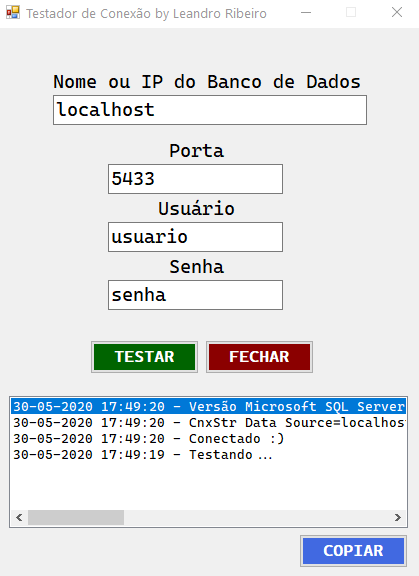
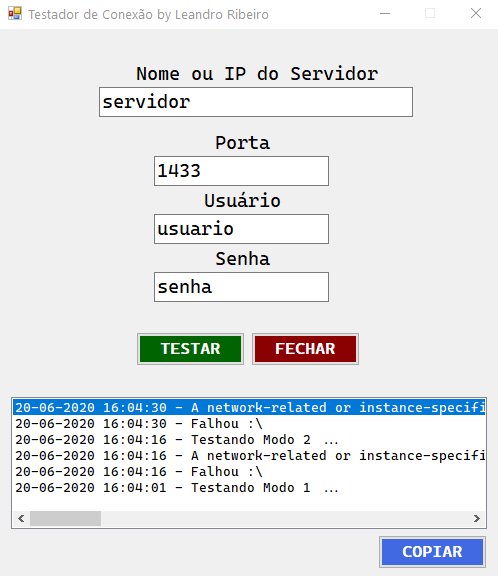
Adicionado método alternativo de conexão ao servidor

diff --git a/Main.Designer.cs b/Main.Designer.cs
@@ -30,7 +30,7 @@
         {
             this.components = new System.ComponentModel.Container();
             this.label1 = new System.Windows.Forms.Label();
-            this.txtBancoDeDados = new System.Windows.Forms.TextBox();
+            this.txtServidor = new System.Windows.Forms.TextBox();
             this.txtUsuario = new System.Windows.Forms.TextBox();
             this.label2 = new System.Windows.Forms.Label();
             this.txtSenha = new System.Windows.Forms.TextBox();
@@ -49,25 +49,25 @@
             // 
             this.label1.AutoSize = true;
             this.label1.Font = new System.Drawing.Font("Cascadia Code", 14F, System.Drawing.FontStyle.Regular, System.Drawing.GraphicsUnit.Point, ((byte)(0)));
-            this.label1.Location = new System.Drawing.Point(52, 42);
+            this.label1.Location = new System.Drawing.Point(133, 33);
             this.label1.Name = "label1";
-            this.label1.Size = new System.Drawing.Size(318, 22);
+            this.label1.Size = new System.Drawing.Size(252, 22);
             this.label1.TabIndex = 0;
-            this.label1.Text = "Nome ou IP do Banco de Dados";
+            this.label1.Text = "Nome ou IP do Servidor";
             // 
-            // txtBancoDeDados
+            // txtServidor
             // 
-            this.txtBancoDeDados.Font = new System.Drawing.Font("Cascadia Code", 14F, System.Drawing.FontStyle.Regular, System.Drawing.GraphicsUnit.Point, ((byte)(0)));
-            this.txtBancoDeDados.Location = new System.Drawing.Point(56, 67);
-            this.txtBancoDeDados.Name = "txtBancoDeDados";
-            this.txtBancoDeDados.Size = new System.Drawing.Size(314, 30);
-            this.txtBancoDeDados.TabIndex = 1;
-            this.txtBancoDeDados.Validating += new System.ComponentModel.CancelEventHandler(this.txtBancoDeDados_Validating);
+            this.txtServidor.Font = new System.Drawing.Font("Cascadia Code", 14F, System.Drawing.FontStyle.Regular, System.Drawing.GraphicsUnit.Point, ((byte)(0)));
+            this.txtServidor.Location = new System.Drawing.Point(100, 58);
+            this.txtServidor.Name = "txtServidor";
+            this.txtServidor.Size = new System.Drawing.Size(314, 30);
+            this.txtServidor.TabIndex = 1;
+            this.txtServidor.Validating += new System.ComponentModel.CancelEventHandler(this.txtBancoDeDados_Validating);
             // 
             // txtUsuario
             // 
             this.txtUsuario.Font = new System.Drawing.Font("Cascadia Code", 14F, System.Drawing.FontStyle.Regular, System.Drawing.GraphicsUnit.Point, ((byte)(0)));
-            this.txtUsuario.Location = new System.Drawing.Point(111, 194);
+            this.txtUsuario.Location = new System.Drawing.Point(155, 185);
             this.txtUsuario.Name = "txtUsuario";
             this.txtUsuario.Size = new System.Drawing.Size(175, 30);
             this.txtUsuario.TabIndex = 3;
@@ -77,7 +77,7 @@
             // 
             this.label2.AutoSize = true;
             this.label2.Font = new System.Drawing.Font("Cascadia Code", 14F, System.Drawing.FontStyle.Regular, System.Drawing.GraphicsUnit.Point, ((byte)(0)));
-            this.label2.Location = new System.Drawing.Point(157, 169);
+            this.label2.Location = new System.Drawing.Point(201, 160);
             this.label2.Name = "label2";
             this.label2.Size = new System.Drawing.Size(87, 22);
             this.label2.TabIndex = 2;
@@ -86,7 +86,7 @@
             // txtSenha
             // 
             this.txtSenha.Font = new System.Drawing.Font("Cascadia Code", 14F, System.Drawing.FontStyle.Regular, System.Drawing.GraphicsUnit.Point, ((byte)(0)));
-            this.txtSenha.Location = new System.Drawing.Point(111, 252);
+            this.txtSenha.Location = new System.Drawing.Point(155, 243);
             this.txtSenha.Name = "txtSenha";
             this.txtSenha.Size = new System.Drawing.Size(175, 30);
             this.txtSenha.TabIndex = 5;
@@ -96,7 +96,7 @@
             // 
             this.label3.AutoSize = true;
             this.label3.Font = new System.Drawing.Font("Cascadia Code", 14F, System.Drawing.FontStyle.Regular, System.Drawing.GraphicsUnit.Point, ((byte)(0)));
-            this.label3.Location = new System.Drawing.Point(168, 227);
+            this.label3.Location = new System.Drawing.Point(212, 218);
             this.label3.Name = "label3";
             this.label3.Size = new System.Drawing.Size(65, 22);
             this.label3.TabIndex = 4;
@@ -108,7 +108,7 @@
             this.btnTestar.Cursor = System.Windows.Forms.Cursors.Hand;
             this.btnTestar.Font = new System.Drawing.Font("Cascadia Code", 12F, System.Drawing.FontStyle.Bold, System.Drawing.GraphicsUnit.Point, ((byte)(0)));
             this.btnTestar.ForeColor = System.Drawing.Color.White;
-            this.btnTestar.Location = new System.Drawing.Point(93, 312);
+            this.btnTestar.Location = new System.Drawing.Point(137, 303);
             this.btnTestar.Name = "btnTestar";
             this.btnTestar.Size = new System.Drawing.Size(109, 34);
             this.btnTestar.TabIndex = 6;
@@ -122,7 +122,7 @@
             this.btnFechar.Cursor = System.Windows.Forms.Cursors.Hand;
             this.btnFechar.Font = new System.Drawing.Font("Cascadia Code", 12F, System.Drawing.FontStyle.Bold, System.Drawing.GraphicsUnit.Point, ((byte)(0)));
             this.btnFechar.ForeColor = System.Drawing.Color.White;
-            this.btnFechar.Location = new System.Drawing.Point(208, 312);
+            this.btnFechar.Location = new System.Drawing.Point(252, 303);
             this.btnFechar.Name = "btnFechar";
             this.btnFechar.Size = new System.Drawing.Size(109, 34);
             this.btnFechar.TabIndex = 7;
@@ -137,17 +137,17 @@
             // txtPorta
             // 
             this.txtPorta.Font = new System.Drawing.Font("Cascadia Code", 14F, System.Drawing.FontStyle.Regular, System.Drawing.GraphicsUnit.Point, ((byte)(0)));
-            this.txtPorta.Location = new System.Drawing.Point(111, 136);
+            this.txtPorta.Location = new System.Drawing.Point(155, 127);
             this.txtPorta.Name = "txtPorta";
             this.txtPorta.Size = new System.Drawing.Size(175, 30);
             this.txtPorta.TabIndex = 9;
-            this.txtPorta.Text = "5433";
+            this.txtPorta.Text = "1433";
             // 
             // label4
             // 
             this.label4.AutoSize = true;
             this.label4.Font = new System.Drawing.Font("Cascadia Code", 14F, System.Drawing.FontStyle.Regular, System.Drawing.GraphicsUnit.Point, ((byte)(0)));
-            this.label4.Location = new System.Drawing.Point(168, 111);
+            this.label4.Location = new System.Drawing.Point(212, 102);
             this.label4.Name = "label4";
             this.label4.Size = new System.Drawing.Size(65, 22);
             this.label4.TabIndex = 8;
@@ -161,7 +161,7 @@
             this.lstHistorico.ItemHeight = 16;
             this.lstHistorico.Location = new System.Drawing.Point(12, 368);
             this.lstHistorico.Name = "lstHistorico";
-            this.lstHistorico.Size = new System.Drawing.Size(399, 132);
+            this.lstHistorico.Size = new System.Drawing.Size(476, 132);
             this.lstHistorico.TabIndex = 11;
             // 
             // button1
@@ -170,7 +170,7 @@
             this.button1.Cursor = System.Windows.Forms.Cursors.Hand;
             this.button1.Font = new System.Drawing.Font("Cascadia Code", 12F, System.Drawing.FontStyle.Bold, System.Drawing.GraphicsUnit.Point, ((byte)(0)));
             this.button1.ForeColor = System.Drawing.Color.White;
-            this.button1.Location = new System.Drawing.Point(302, 506);
+            this.button1.Location = new System.Drawing.Point(379, 506);
             this.button1.Name = "button1";
             this.button1.Size = new System.Drawing.Size(109, 34);
             this.button1.TabIndex = 12;
@@ -182,7 +182,7 @@
             // 
             this.AutoScaleDimensions = new System.Drawing.SizeF(6F, 13F);
             this.AutoScaleMode = System.Windows.Forms.AutoScaleMode.Font;
-            this.ClientSize = new System.Drawing.Size(423, 549);
+            this.ClientSize = new System.Drawing.Size(500, 549);
             this.Controls.Add(this.button1);
             this.Controls.Add(this.lstHistorico);
             this.Controls.Add(this.txtPorta);
@@ -193,7 +193,7 @@
             this.Controls.Add(this.label3);
             this.Controls.Add(this.txtUsuario);
             this.Controls.Add(this.label2);
-            this.Controls.Add(this.txtBancoDeDados);
+            this.Controls.Add(this.txtServidor);
             this.Controls.Add(this.label1);
             this.FormBorderStyle = System.Windows.Forms.FormBorderStyle.FixedSingle;
             this.MaximizeBox = false;
@@ -210,7 +210,7 @@
         #endregion
 
         private System.Windows.Forms.Label label1;
-        private System.Windows.Forms.TextBox txtBancoDeDados;
+        private System.Windows.Forms.TextBox txtServidor;
         private System.Windows.Forms.TextBox txtUsuario;
         private System.Windows.Forms.Label label2;
         private System.Windows.Forms.TextBox txtSenha;

diff --git a/Main.cs b/Main.cs
@@ -22,22 +22,36 @@ namespace TesteDeConexao
             if (!ValidateChildren(ValidationConstraints.Enabled))
                 return;
 
-            AdicionarMensagemNoHistorico("Testando...");
+            
 
             BloquearBotao();
 
-            var servidor = txtBancoDeDados.Text;
+            var servidor = txtServidor.Text;
             var porta = txtPorta.Text;
             var bancoDeDados = BancoDeDados;
             var usuario = txtUsuario.Text;
             var senha = txtSenha.Text;
 
-            var dt = new DataTable();
+            AdicionarMensagemNoHistorico("Testando Modo 1 ...");
+
             _cnxStr = $"Data Source={servidor},{porta};Initial Catalog={bancoDeDados};Persist Security Info=True;User Id={usuario};Password={senha};MultipleActiveResultSets=True;App=TesteDeConexao";
+
+            if (!TestaConexao())
+            {
+                AdicionarMensagemNoHistorico("Testando Modo 2 ...");
+                _cnxStr = $"Server={servidor},{porta};Database={bancoDeDados};User Id={usuario};Password={senha}";
+                TestaConexao();
+            }
+
+            HabilitarBotao();
+        }
+
+        private bool TestaConexao()
+        {
+            var dt = new DataTable();
 
             using (var conn = new SqlConnection(_cnxStr))
             {
-
                 try
                 {
                     var sqlComm = new SqlCommand("SELECT @@VERSION", conn)
@@ -45,7 +59,7 @@ namespace TesteDeConexao
                         CommandType = CommandType.Text
                     };
 
-                    var da = new SqlDataAdapter { SelectCommand = sqlComm };
+                    var da = new SqlDataAdapter {SelectCommand = sqlComm};
 
                     da.Fill(dt);
 
@@ -58,17 +72,19 @@ namespace TesteDeConexao
                     var versao = dt.Rows[0][0].ToString();
 
                     AdicionarMensagemNoHistorico($"Versão {versao}");
+
+                    return true;
                 }
                 catch (Exception ex)
                 {
                     AdicionarMensagemNoHistorico("Falhou :\\");
                     AdicionarMensagemNoHistorico(ex.Message);
+
+                    return false;
                 }
+            } // using
 
-            }
-
-            HabilitarBotao();
-        }
+        } // function
 
         private void HabilitarBotao()
         {
@@ -99,16 +115,16 @@ namespace TesteDeConexao
 
         private void txtBancoDeDados_Validating(object sender, CancelEventArgs e)
         {
-            if (string.IsNullOrWhiteSpace(txtBancoDeDados.Text))
+            if (string.IsNullOrWhiteSpace(txtServidor.Text))
             {
                 e.Cancel = true;
-                txtBancoDeDados.Focus();
-                errorProvider1.SetError(txtBancoDeDados, "Você precisa preencher o nome ou IP do banco de dados");
+                txtServidor.Focus();
+                errorProvider1.SetError(txtServidor, "Você precisa preencher o nome ou IP do banco de dados");
             }
             else
             {
                 e.Cancel = false;
-                errorProvider1.SetError(txtBancoDeDados, "");
+                errorProvider1.SetError(txtServidor, "");
             }
         }
 
@@ -145,7 +161,7 @@ namespace TesteDeConexao
         private void Main_Load(object sender, EventArgs e)
         {
 #if DEBUG
-            txtBancoDeDados.Text = "localhost";
+            txtServidor.Text = "localhost";
             txtUsuario.Text = "sa";
             txtSenha.Text = "Pass@word";
 #endif
